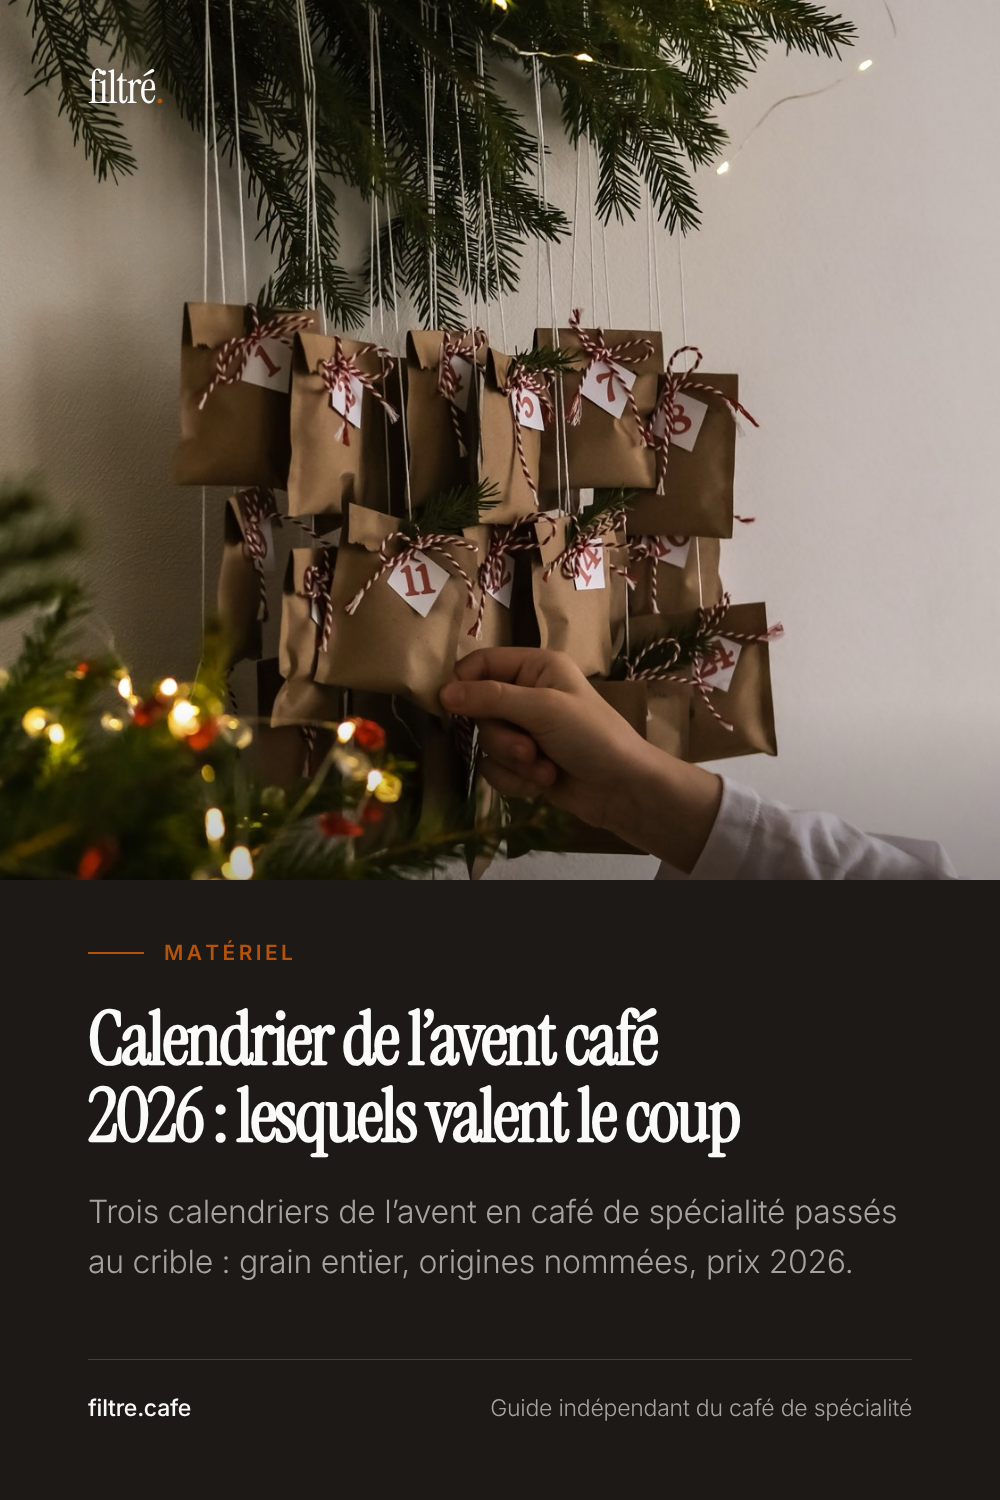
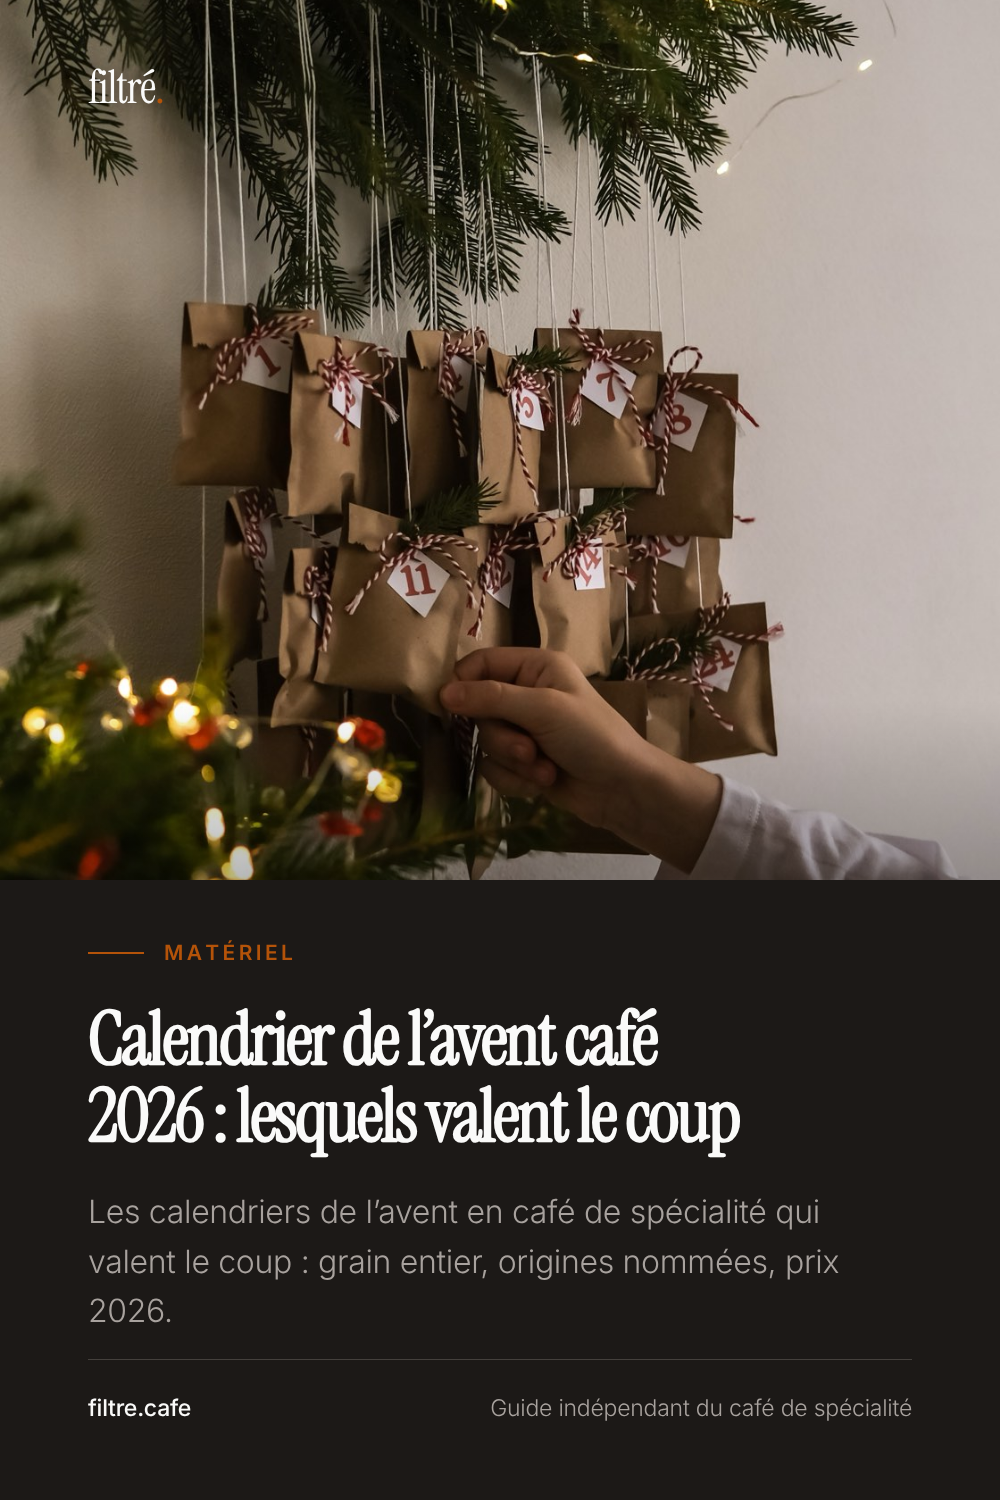
Guide cadeaux : le calendrier de l'avent Coffee Friend Premium
- Dans « Ceux qui tiennent la route », après Arlo's : 24 sachets de 24 g en grain (deux
  tasses par case), surtout des origines uniques et quelques mélanges, affiché à 59,99 € au
  lieu de 74,99 € le 22 octobre ; lien affilié et mention du partenariat dans la phrase.
- Tableau des budgets : une ligne à ~60 € ; « les quatre » dans la réserve sur les stocks.
- Épingle des calendriers : quatre calendriers dans la description, accroche sans chiffre,
  image refaite. dateModified et sitemap au 22 octobre.

Claude-Session: https://claude.ai/code/session_01UoxyLgXUxGwwQgLi9G3NXS

Changed region(s): [[0.093, 0.7973, 0.899, 0.8893]]

diff --git a/astro/src/fragments/journal/idees-cadeaux-cafe.body.html b/astro/src/fragments/journal/idees-cadeaux-cafe.body.html
@@ -15,7 +15,7 @@
     <span class="text-stone-300">·</span>
     <time class="text-xs text-stone-400 font-medium">4 juillet 2026</time>
     <span class="text-stone-300">·</span>
-    <time datetime="2026-10-19" class="text-xs text-amber-700 font-medium">Mis à jour le 19 octobre 2026</time>
+    <time datetime="2026-10-22" class="text-xs text-amber-700 font-medium">Mis à jour le 22 octobre 2026</time>
     <span class="text-stone-300">·</span>
     <span class="text-xs text-stone-400 font-medium" data-byline>Par <a href="/a-propos" class="underline underline-offset-2 hover:text-stone-900">Reda</a></span>
     <span class="text-stone-300">·</span>
@@ -103,10 +103,11 @@
 
     <h3>Ceux qui tiennent la route</h3>
     <p><strong><a href="https://arloscoffee.com/" class="text-amber-700 font-medium hover:underline underline-offset-2" target="_blank" rel="noopener">Arlo's Coffee</a></strong>, torréfacteur installé du côté de Rambouillet, tient tout le calendrier d'une seule main. Vingt-quatre sachets de 30 g, 100 % arabica torréfié en France, moitié origines pures, moitié assemblages maison. L'édition 2026 existe en grain, à 54,90 € chez Ici Présent et Nature & Découvertes, expédiée à partir du 30 octobre : commandée avant le 23 novembre, elle arrive avant le 1er décembre. Ces 30 g par case sont un vrai argument : de quoi rater son extraction le matin et la réussir le lendemain, ce qu'une dose de 10 g ne permet jamais.</p>
+    <p>Chez <strong><a href="https://to.coffeefriend.fr/t/t?a=1893886145&amp;as=2111855087&amp;t=2&amp;tk=1&amp;url=https://www.coffeefriend.fr/p/calendrier-de-lavent-pour-le-cafe-coffee-friend-premium-grains-de-cafe/" class="text-amber-700 font-medium hover:underline underline-offset-2" target="_blank" rel="noopener sponsored">Coffee Friend</a></strong>, le calendrier Premium tient aussi mes trois critères : vingt-quatre sachets de 24 g de café de spécialité en grain, de quoi faire deux tasses par case. La plupart sont des origines uniques, quelques cases des mélanges. Il est affiché à 59,99 € au lieu de 74,99 € quand j'écris ces lignes, le 22 octobre. Coffee Friend est un partenaire : je touche une commission sur les achats faits par ce lien, sans surcoût pour vous.</p>
     <h3>Et si on regarde vers le nord</h3>
     <p>Le plus abouti du genre vient de Norvège. <strong><a href="https://www.kaffebox.no/scandinavian-specialty-coffee-advent-calendar/" class="text-amber-700 font-medium hover:underline underline-offset-2" target="_blank" rel="noopener">Kaffebox</a></strong> réunit douze torréfacteurs scandinaves et remplit ses vingt-quatre cases de tubes de 50 g en grain entier, de quoi tirer quatre à cinq tasses par jour là où la plupart des calendriers en donnent une. Comptez 2195 NOK pour l'édition 2026, à peu près 199 €, TVA comprise et sans frais de douane dans l'Union européenne, plus 195 NOK de port, environ 17 €. Deux cents couronnes par calendrier vendu vont à charity: water, pour des projets d'accès à l'eau potable. C'est cher, et à ce niveau de dose et de sélection, ça se défend.</p>
     <p>Plus abordable, <strong><a href="https://19grams.coffee/collections/kaffee-adventskalender" class="text-amber-700 font-medium hover:underline underline-offset-2" target="_blank" rel="noopener">19grams</a></strong>, à Berlin, ouvre vingt-quatre portes sur vingt-quatre cafés de vingt-quatre pays, dont un décaféiné et un robusta, en version filtre ou espresso. 99,90 € en grain, pour vingt-quatre doses de 50 g. Vous choisissez la date d'envoi à la commande : tout de suite, le 1er ou le 15 novembre.</p>
-    <p>Une réserve qui vaut pour les trois, et pour tous les autres. Ces éditions se préparent l'été, se vendent d'octobre à décembre et s'épuisent pour de bon. Le Kaffebox 2026 est en précommande : torréfié le 10 novembre, expédié le 20, il arrive avant le 1er décembre si vous commandez avant le 20 novembre. Commandez maintenant, et regardez les frais de port : 19grams calcule le sien à la commande pour la France, il ne l'offre qu'en Allemagne.</p>
+    <p>Une réserve qui vaut pour les quatre, et pour tous les autres. Ces éditions se préparent l'été, se vendent d'octobre à décembre et s'épuisent pour de bon. Le Kaffebox 2026 est en précommande : torréfié le 10 novembre, expédié le 20, il arrive avant le 1er décembre si vous commandez avant le 20 novembre. Commandez maintenant, et regardez les frais de port : 19grams calcule le sien à la commande pour la France, il ne l'offre qu'en Allemagne.</p>
 
     <p>Et il existe une version que je préfère souvent à celles du commerce : <strong>le calendrier fait main</strong>. Vous commandez six à huit sachets chez un ou deux <a href="/journal/torrefacteurs-francais" class="text-amber-700 font-medium hover:underline underline-offset-2">torréfacteurs français</a>, vous répartissez les doses dans des sachets kraft numérotés, et vous glissez un mot sur chaque origine. C'est moins spectaculaire à l'ouverture, le café est bien plus frais, et le geste se voit. Si vous ne savez pas où commander, on a fait le tour des <a href="/journal/ou-acheter-cafe-specialite-en-ligne" class="text-amber-700 font-medium hover:underline underline-offset-2">meilleures boutiques en ligne</a>. À Berlin, <a href="https://thebarn.de/pages/specialty-advent-coffees" class="text-amber-700 font-medium hover:underline underline-offset-2" target="_blank" rel="noopener">The Barn</a> pousse cette logique jusqu'au bout : pas de calendrier à cases, mais une sélection de vingt-quatre cafés d'exception en sachets de 250 g, dans laquelle on pioche pour composer le sien.</p>
 
@@ -208,6 +209,11 @@
               <td style="padding:0.6rem 0.75rem 0.6rem 0;white-space:nowrap;">~55 €</td>
               <td style="padding:0.6rem 0.75rem;"><a href="https://arloscoffee.com/" class="text-amber-700 font-medium hover:underline underline-offset-2" target="_blank" rel="noopener">Calendrier Arlo's Coffee</a></td>
               <td style="padding:0.6rem 0 0.6rem 0.75rem;">Il veut découvrir, 24 doses de 30 g</td>
+            </tr>
+            <tr style="border-bottom:1px solid #f5f5f4;">
+              <td style="padding:0.6rem 0.75rem 0.6rem 0;white-space:nowrap;">~60 €</td>
+              <td style="padding:0.6rem 0.75rem;"><a href="https://to.coffeefriend.fr/t/t?a=1893886145&amp;as=2111855087&amp;t=2&amp;tk=1&amp;url=https://www.coffeefriend.fr/p/calendrier-de-lavent-pour-le-cafe-coffee-friend-premium-grains-de-cafe/" class="text-amber-700 font-medium hover:underline underline-offset-2" target="_blank" rel="noopener sponsored">Calendrier Coffee Friend Premium</a></td>
+              <td style="padding:0.6rem 0 0.6rem 0.75rem;">Il veut découvrir, 24 doses de 24 g</td>
             </tr>
             <tr style="border-bottom:1px solid #f5f5f4;">
               <td style="padding:0.6rem 0.75rem 0.6rem 0;white-space:nowrap;">~50 €</td>

diff --git a/astro/src/fragments/journal/idees-cadeaux-cafe.head.html b/astro/src/fragments/journal/idees-cadeaux-cafe.head.html
@@ -32,7 +32,7 @@
       "url": "https://filtre.cafe/journal/idees-cadeaux-cafe",
       "image": { "@type": "ImageObject", "url": "https://filtre.cafe/illustrations/idees-cadeaux-cafe.jpg", "width": 1200, "height": 675 },
       "datePublished": "2026-07-04",
-      "dateModified": "2026-10-19",
+      "dateModified": "2026-10-22",
       "author": { "@type": "Person", "name": "Reda", "url": "https://filtre.cafe/a-propos" },
       "publisher": { "@type": "Organization", "name": "filtré.", "url": "https://filtre.cafe" },
       "inLanguage": "fr-FR",
